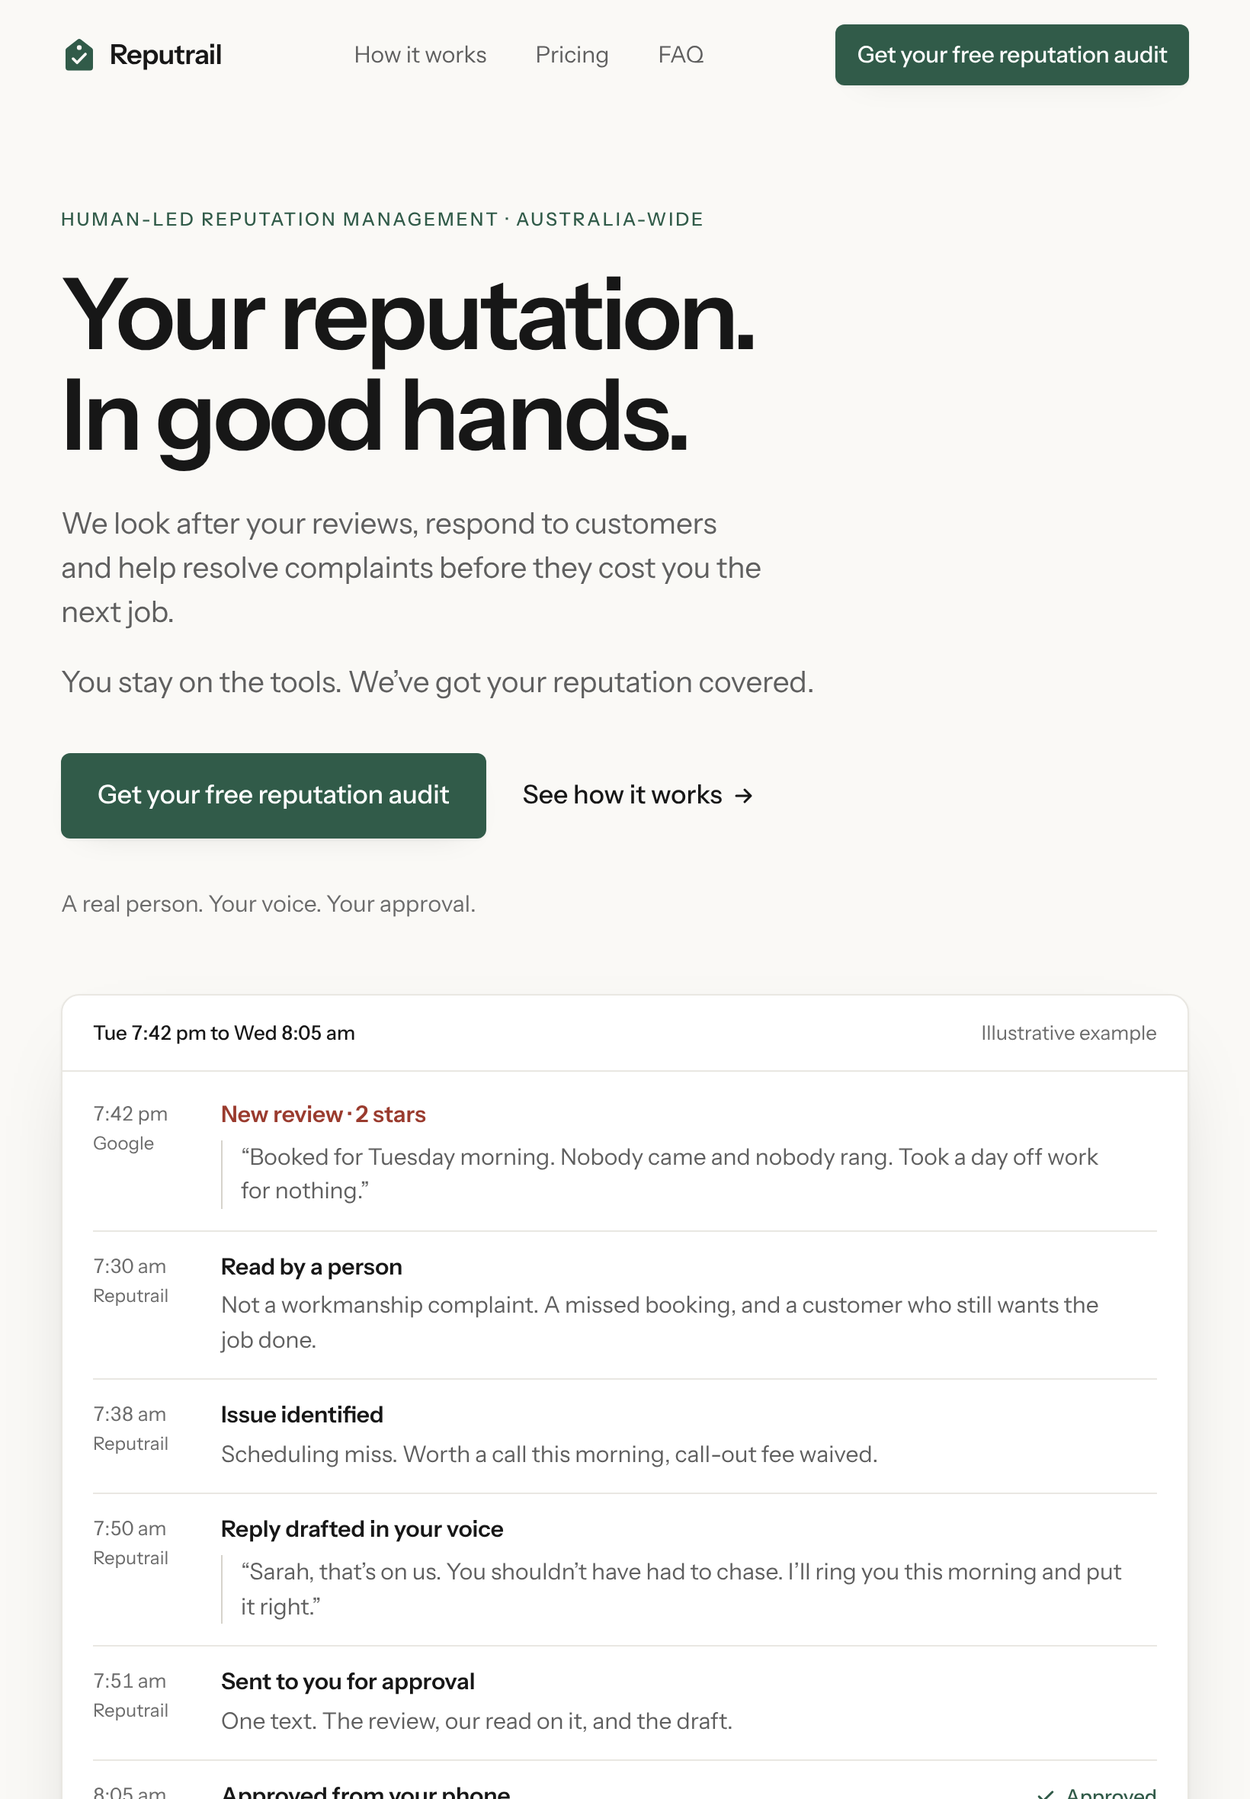
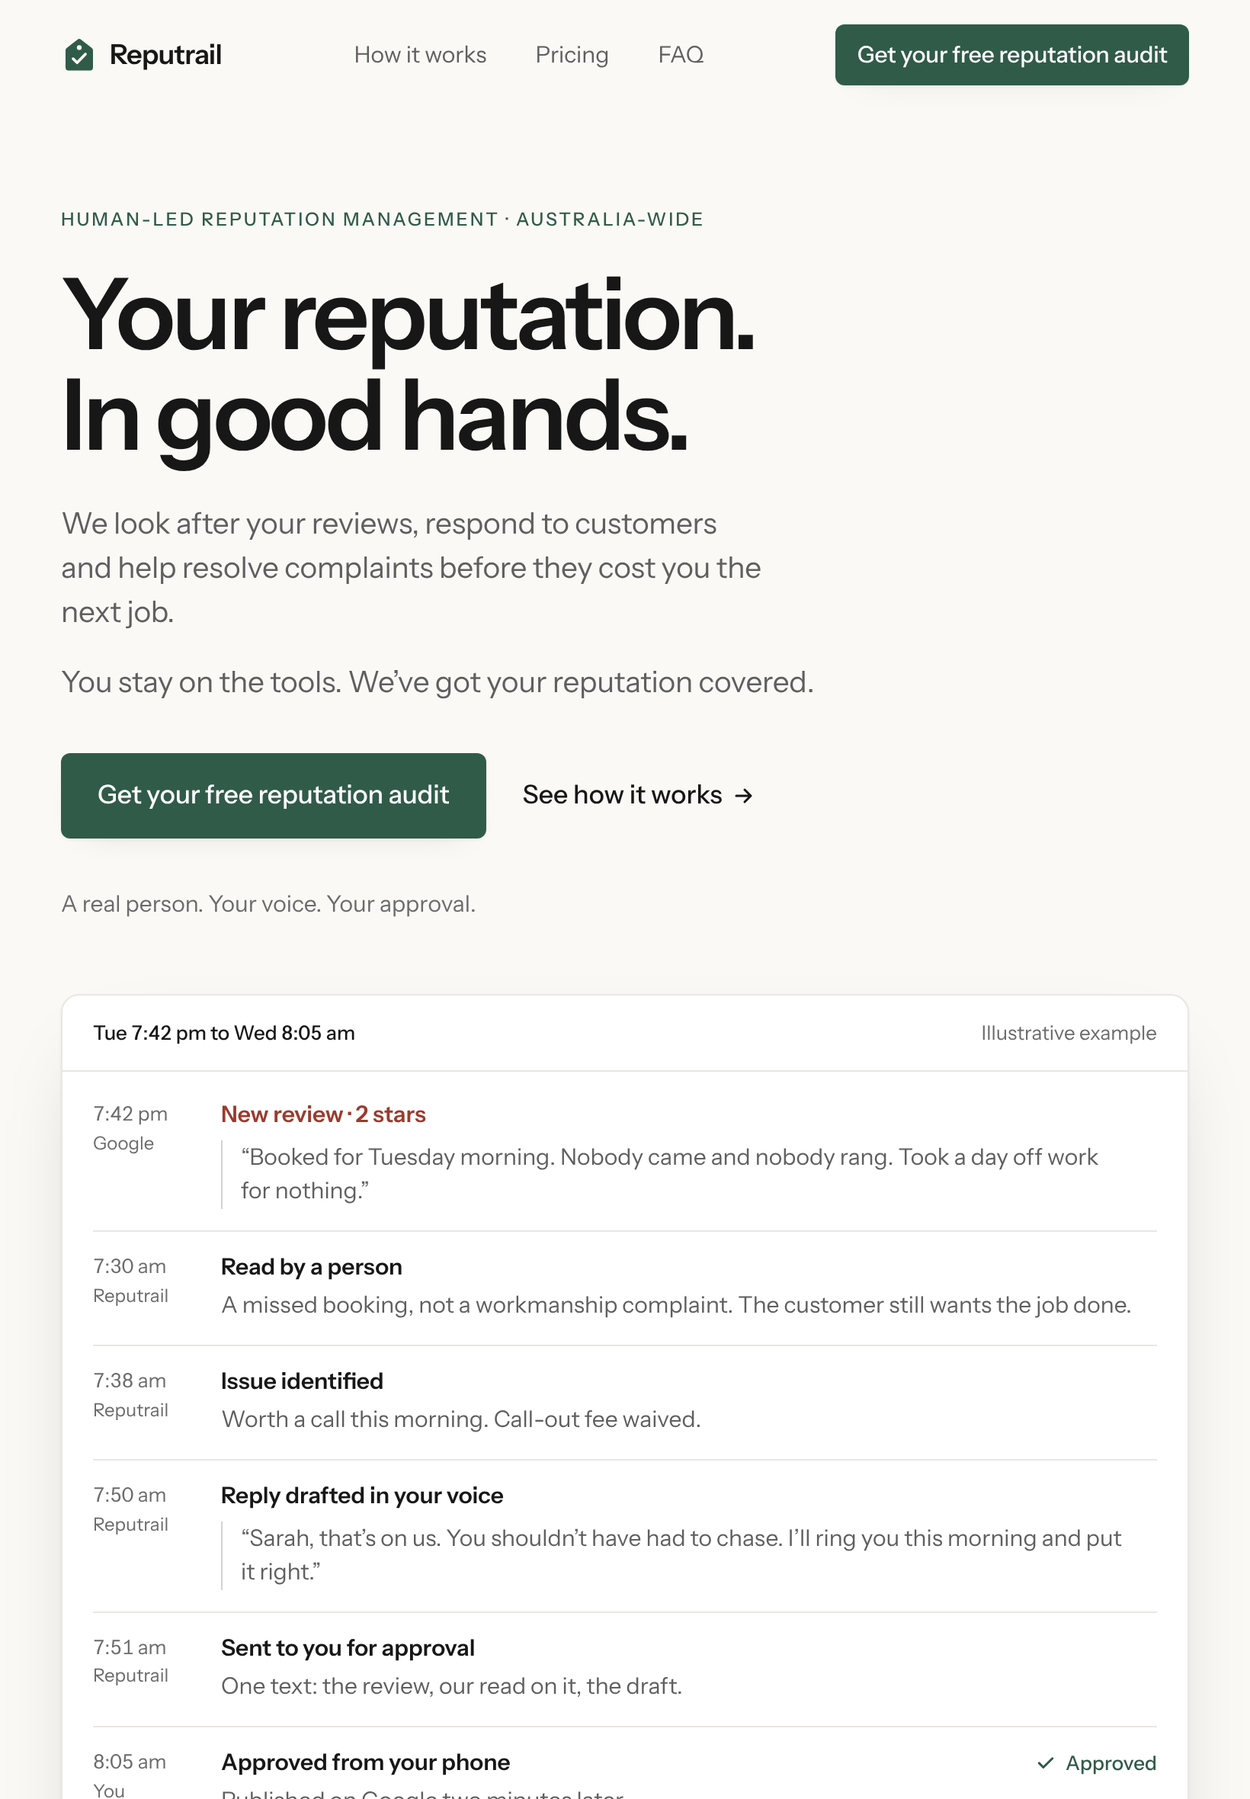
Trim repeated copy across the home page
Services down to two items per group with no overlap with the steps or
plan bullets; shorter step bodies and plan bullets; pricing lede and
pilot panel cut to the terms that matter and the duplicate pilot link
removed; timeline tightened to one entry per idea; shorter audit points,
differentiation bodies, FAQ answers and footer line. 1,529 words to
1,328 on the closed page.

Claude-Session: https://claude.ai/code/session_01ENmCd512n7pVmn2xqYR7gJ

diff --git a/src/lib/site.ts b/src/lib/site.ts
@@ -47,25 +47,15 @@ export const site = {
         name: "Essential",
         price: 299,
         summary: "Your reviews watched and answered.",
-        includes: [
-          "Google, hipages and Facebook checked every working day",
-          "Replies drafted in your voice, published with your approval",
-          "Negative reviews escalated to you the same working day",
-          "One-page monthly report",
-        ],
+        includes: ["Google, hipages and Facebook checked every working day", "Replies drafted and published with your approval", "One-page monthly report"],
         fit: "Owner-operators and small crews.",
       },
       {
         id: "managed",
         name: "Managed",
         price: 499,
-        summary: "Everything in Essential, plus winning customers back.",
-        includes: [
-          "Everything in Essential",
-          "Customer recovery: we prepare the call, you make it",
-          "Genuine review requests after completed jobs",
-          "Quarterly competitor check",
-        ],
+        summary: "Essential, plus winning customers back.",
+        includes: ["Everything in Essential", "Customer recovery: we prepare the call, you make it", "Review requests after every completed job"],
         fit: "Businesses with 3 to 15 staff and a steady flow of jobs.",
         featured: true,
       },
@@ -74,12 +64,7 @@ export const site = {
         name: "Premium",
         price: 799,
         summary: "For operators who win work on reputation.",
-        includes: [
-          "Everything in Managed",
-          "Monthly competitor and customer-feedback insights",
-          "Complaint and warranty follow-up coordination",
-          "Monthly 30-minute review call",
-        ],
+        includes: ["Everything in Managed", "Monthly competitor and customer-feedback insights", "Complaint and warranty follow-up, plus a monthly call"],
         fit: "Multi-crew or multi-location businesses.",
       },
     ],
@@ -103,20 +88,8 @@ export const trades = [
 ] as const;
 
 export const serviceGroups = [
-  {
-    name: "Review management",
-    items: ["Every review read by a person, every working day", "Replies drafted in your voice", "Nothing published without your approval"],
-  },
-  {
-    name: "Customer recovery",
-    items: ["Negative reviews escalated the same working day", "A short brief before you ring the customer", "Outcomes recorded and followed up"],
-  },
-  {
-    name: "Reputation growth",
-    items: ["Honest review requests after completed jobs", "Every nominated customer asked, not just the happy ones", "Working unsubscribe on every message"],
-  },
-  {
-    name: "Reporting and insights",
-    items: ["One-page report each month", "How you compare with three local competitors", "What customers keep praising and complaining about"],
-  },
+  { name: "Review management", items: ["Google, hipages and Facebook, every working day", "Nothing published without your approval"] },
+  { name: "Customer recovery", items: ["Bad reviews escalated the same day", "Outcomes recorded and followed up"] },
+  { name: "Reputation growth", items: ["Honest review requests after every job", "Every customer asked, not just the happy ones"] },
+  { name: "Reporting and insights", items: ["One page a month", "What customers keep praising and complaining about"] },
 ] as const;

diff --git a/src/components/sections/FreeAudit.tsx b/src/components/sections/FreeAudit.tsx
@@ -3,9 +3,9 @@ import { ButtonLink } from "@/components/Button";
 import { Section, SectionHeading } from "@/components/Section";
 
 const points = [
-  { title: "Where you stand", body: "Your rating, reply rate and most recent review next to three competitors near you." },
-  { title: "What customers are saying", body: "The themes in your reviews, good and bad, in plain words." },
-  { title: "What we’d fix first", body: "Three things, in order. Yours to act on with or without us." },
+  { title: "Where you stand", body: "Your rating, reply rate and newest review next to three competitors near you." },
+  { title: "What customers are saying", body: "The themes in your reviews, good and bad." },
+  { title: "What we’d fix first", body: "Three things, in order, with or without us." },
 ];
 
 /** A fictional audit, typeset like the one-page document a customer receives. */
@@ -53,8 +53,8 @@ function ReportPreview() {
         <p className="text-[0.75rem] uppercase tracking-[0.08em] text-ink-faint">What we’d fix first</p>
         <ol className="mt-3 grid gap-2.5 text-small text-ink-soft">
           <li className="grid grid-cols-[1.25rem_1fr] gap-2"><span className="tabular text-ink">1.</span>Reply to the four unanswered reviews, starting with the two-star from March.</li>
-          <li className="grid grid-cols-[1.25rem_1fr] gap-2"><span className="tabular text-ink">2.</span>Ask the last 20 completed jobs for a review. Your most recent is 14 months old.</li>
-          <li className="grid grid-cols-[1.25rem_1fr] gap-2"><span className="tabular text-ink">3.</span>Add after-hours contact details to your profile; three reviews mention not being able to reach you.</li>
+          <li className="grid grid-cols-[1.25rem_1fr] gap-2"><span className="tabular text-ink">2.</span>Ask the last 20 jobs for a review. Your newest is 14 months old.</li>
+          <li className="grid grid-cols-[1.25rem_1fr] gap-2"><span className="tabular text-ink">3.</span>Add after-hours contact details; three reviews mention not reaching you.</li>
         </ol>
       </div>
     </figure>
@@ -69,7 +69,7 @@ export function FreeAudit() {
           <SectionHeading
             id="audit-heading"
             title="See where your reputation stands."
-            lede="Send us your business name. Within two working days you’ll have one page that shows you three things."
+            lede="Send us your business name. Two working days later, one page shows you three things."
           />
           <ol className="mt-8 grid gap-6 border-t rule pt-8 md:mt-10">
             {points.map((p, i) => (
@@ -86,7 +86,7 @@ export function FreeAudit() {
             <ButtonLink href="/audit" size="lg" className="w-full sm:w-auto">
               Get your free reputation audit
             </ButtonLink>
-            <p className="mt-4 text-small text-ink-faint">No logins or access needed. We only use what’s already public.</p>
+            <p className="mt-4 text-small text-ink-faint">No logins needed. We only use what’s public.</p>
           </Reveal>
         </div>
         <Reveal delay={120}>

diff --git a/src/components/sections/Pricing.tsx b/src/components/sections/Pricing.tsx
@@ -1,5 +1,5 @@
 import { Reveal } from "@/components/Reveal";
-import { ButtonLink, TextLink } from "@/components/Button";
+import { ButtonLink } from "@/components/Button";
 import { Section, SectionHeading } from "@/components/Section";
 import { site } from "@/lib/site";
 
@@ -13,7 +13,7 @@ export function Pricing() {
       <SectionHeading
         id="pricing-heading"
         title="Straightforward pricing. No lock-in."
-        lede="Month to month. No set-up fee. Cancel any time and your plan ends with the month you’ve paid for. Prices exclude GST."
+        lede="Month to month, no set-up fee, cancel any time. Prices exclude GST."
       />
 
       <ul className="mt-10 grid gap-5 md:mt-14 lg:grid-cols-3">
@@ -65,27 +65,20 @@ export function Pricing() {
         <ButtonLink href="/audit" size="lg" className="w-full">
           Get your free reputation audit
         </ButtonLink>
-        <p className="mt-3 text-center text-small text-ink-faint">The audit comes first. We’ll talk plans after.</p>
+        <p className="mt-3 text-center text-small text-ink-faint">The audit comes first.</p>
       </Reveal>
 
-      <Reveal className="mt-10 grid gap-6 rounded-md border rule bg-ground-sunken/70 p-6 md:grid-cols-[1fr_auto] md:items-center md:p-8">
+      <Reveal className="mt-10 rounded-md border rule bg-ground-sunken/70 p-6 md:p-8">
         <div className="max-w-[36rem]">
           <h3 className="text-heading text-ink">{pilot.label}</h3>
           <p className="mt-2 text-body text-ink-soft">
-            For our first three customers: the Managed plan at {fmt(pilot.price)} {pilot.period}, no set-up fee, nothing
-            renewing automatically. Around day 25 we ask what you’d like to do next: continue at {fmt(managedPrice)} a month, or
-            stop. Either way the audit and report are yours to keep.
+            Our first three customers get the Managed plan at {fmt(pilot.price)} {pilot.period}. Nothing renews automatically:
+            around day 25 we ask whether you’d like to continue at {fmt(managedPrice)} a month or stop.
           </p>
           {pilot.places > 0 ? (
-            <p className="mt-3 text-small text-ink-faint">
-              {pilot.places === 1 ? "One place left." : `${pilot.places} places left.`} The audit comes first; pilot places are
-              offered after it.
-            </p>
+            <p className="mt-3 text-small text-ink-faint">{pilot.places === 1 ? "One place left." : `${pilot.places} places left.`} The audit comes first.</p>
           ) : null}
         </div>
-        <TextLink href="/audit" className="md:self-center">
-          Get your free reputation audit
-        </TextLink>
       </Reveal>
     </Section>
   );

diff --git a/src/components/sections/Faq.tsx b/src/components/sections/Faq.tsx
@@ -8,7 +8,7 @@ export const faqs = [
   },
   {
     q: "Can you remove negative reviews?",
-    a: "Only when a review breaks Google’s own rules, for example it’s about a different business or the person was never a customer. We prepare the report and submit it with your approval; Google decides. Genuine negative reviews can’t be removed, and anyone who promises otherwise is misleading you. What we can do is make sure every one gets a calm reply and, where possible, a private fix. We never ask a customer to change a review.",
+    a: "Only when a review breaks Google’s own rules, for example it’s about a different business or the person was never a customer. We prepare the report with your approval; Google decides. Genuine negative reviews can’t be removed, and anyone who promises otherwise is misleading you. What we can do is make sure each one gets a calm reply and, where possible, a private fix. We never ask a customer to change a review.",
   },
   {
     q: "Do you need my password?",
@@ -20,7 +20,7 @@ export const faqs = [
   },
   {
     q: "What happens when a complaint arrives?",
-    a: "The same working day, a person reads it and works out what kind of problem it is. You get a text with the review, our read on it and a draft reply in your voice. If a call could win the customer back, we brief you first and log what was agreed.",
+    a: "The same working day, a person reads it and works out what kind of problem it is. You get a text with the review, our read on it and a draft reply. If a call could win the customer back, we brief you first.",
   },
   {
     q: "Can I cancel?",
@@ -28,7 +28,7 @@ export const faqs = [
   },
   {
     q: "What about my customers’ information?",
-    a: "We collect the minimum: a first name and one contact detail to send a review request you’ve asked for, and the public text of reviews. We never sell or share it, we strip it before any software sees it, and we delete it when you leave. Every request includes a working unsubscribe.",
+    a: "The minimum: a first name and one contact detail to send a review request you’ve asked for, and the public text of reviews. We never sell or share it, we strip it before any software sees it, and we delete it when you leave.",
   },
 ];
 
@@ -39,7 +39,7 @@ export function Faq() {
         <SectionHeading
           id="faq-heading"
           title="Questions, answered plainly."
-          lede="If yours isn’t here, ask us on the call."
+          lede="If yours isn’t here, ask."
           className="lg:sticky lg:top-24 lg:self-start"
         />
         <div className="border-t rule">

diff --git a/src/components/sections/Experience.tsx b/src/components/sections/Experience.tsx
@@ -10,22 +10,21 @@ const days = [
     day: "Tuesday evening",
     steps: [
       { t: "7:42 pm", text: "A two-star review lands. The customer took a day off and nobody came." },
-      { t: "Overnight", text: "Nothing needs to happen tonight. But the next customer who searches will see it, so the morning matters." },
+      { t: "Overnight", text: "Nothing needs to happen tonight. The morning matters." },
     ],
   },
   {
     day: "Wednesday",
     steps: [
-      { t: "By 8:05 am", text: "We’ve read it, texted you our read on it and a draft reply in your voice, and you’ve approved it from your phone. It’s on Google before most people have searched for a plumber." },
+      { t: "By 8:05 am", text: "We’ve read it, texted you our read and a draft reply, and you’ve approved it from your phone. It’s on Google before most people have searched for a plumber." },
       { t: "9:10 am", text: "You ring the customer. We’ve briefed you first, so the call is short and goes well." },
-      { t: "9:25 am", text: "Rebooked for Friday, call-out fee waived. We log what was agreed." },
+      { t: "9:25 am", text: "Rebooked for Friday, fee waived. We log what was agreed." },
     ],
   },
   {
     day: "Friday",
     steps: [
-      { t: "4:40 pm", text: "Job done. We send a short thank-you. Nothing asked for in return." },
-      { t: "Later", text: "Whatever she decides, the next customer sees a problem that was handled, not ignored." },
+      { t: "4:40 pm", text: "Job done. We send a short thank-you, nothing asked for in return. The next customer sees a problem that was handled." },
     ],
   },
 ];
@@ -36,7 +35,7 @@ export function Experience() {
       <SectionHeading
         id="experience-heading"
         title="Here’s what happens when something goes wrong."
-        lede="One missed booking, from the review landing on Tuesday night to the job being done on Friday. An illustrative example, not a real customer."
+        lede="One missed booking, Tuesday night to Friday. An illustrative example, not a real customer."
       />
 
       <ol className="mt-10 grid gap-10 md:mt-14 md:gap-12 lg:grid-cols-3 lg:gap-10">

diff --git a/src/components/sections/HowItWorks.tsx b/src/components/sections/HowItWorks.tsx
@@ -5,22 +5,22 @@ const steps = [
   {
     n: "01",
     title: "Understand your business",
-    body: "A 30-minute call. How you talk to customers, what you’ll offer when something goes wrong, who approves what. We write it down so every reply sounds like you.",
+    body: "A 30-minute call: how you talk to customers, what you’ll offer when something goes wrong, who approves what.",
   },
   {
     n: "02",
     title: "Monitor and respond",
-    body: "Every working day a person reads your new reviews on Google, hipages and Facebook, drafts replies in your voice and sends them to you to approve by text.",
+    body: "Every working day a person reads your new reviews, drafts the replies in your voice and sends them to you to approve by text.",
   },
   {
     n: "03",
     title: "Escalate and recover",
-    body: "Negative reviews reach you the same working day with our read on the problem and a suggested fix. If a call could win the customer back, we brief you before you ring.",
+    body: "Negative reviews reach you the same day with our read on the problem and a suggested fix. If a call could win the customer back, we brief you first.",
   },
   {
     n: "04",
     title: "Report and improve",
-    body: "One page a month. What came in, how it was handled, how you compare with three local competitors and what customers keep saying.",
+    body: "One page a month: what came in, how it was handled, and what customers keep saying.",
   },
 ];
 
@@ -31,7 +31,7 @@ export function HowItWorks() {
         <SectionHeading
           id="how-heading"
           title="We handle the reviews. You run the business."
-          lede="Four steps, done by people, with your approval at every point that matters."
+          lede="Four steps, done by people."
           className="lg:sticky lg:top-24 lg:self-start"
         />
         <ol className="border-t rule">

diff --git a/src/components/sections/Differentiation.tsx b/src/components/sections/Differentiation.tsx
@@ -4,15 +4,15 @@ import { Section, SectionHeading } from "@/components/Section";
 const points = [
   {
     title: "Someone you can call",
-    body: "Someone looking after your reviews who picks up the phone. Not a ticket queue, not a chatbot.",
+    body: "Someone looking after your reviews who picks up the phone. Not a ticket queue.",
   },
   {
     title: "Replies in your voice",
-    body: "We learn how you talk to customers and write the way you would. You read and approve every word before it goes up.",
+    body: "We learn how you talk to customers and write the way you would. You approve every word.",
   },
   {
     title: "Problems handled, not notifications sent",
-    body: "Apps tell you a review arrived and leave the rest to you. We read it, work out what went wrong and bring you a plan.",
+    body: "Apps tell you a review arrived. We read it, work out what went wrong and bring you a plan.",
   },
 ];
 

diff --git a/src/components/ActivityFeed.tsx b/src/components/ActivityFeed.tsx
@@ -26,13 +26,13 @@ const entries: Entry[] = [
     time: "7:30 am",
     who: "Reputrail",
     title: "Read by a person",
-    body: "Not a workmanship complaint. A missed booking, and a customer who still wants the job done.",
+    body: "A missed booking, not a workmanship complaint. The customer still wants the job done.",
   },
   {
     time: "7:38 am",
     who: "Reputrail",
     title: "Issue identified",
-    body: "Scheduling miss. Worth a call this morning, call-out fee waived.",
+    body: "Worth a call this morning. Call-out fee waived.",
   },
   {
     time: "7:50 am",
@@ -44,7 +44,7 @@ const entries: Entry[] = [
     time: "7:51 am",
     who: "Reputrail",
     title: "Sent to you for approval",
-    body: "One text. The review, our read on it, and the draft.",
+    body: "One text: the review, our read on it, the draft.",
   },
   {
     time: "8:05 am",

diff --git a/src/components/sections/WhatWeHandle.tsx b/src/components/sections/WhatWeHandle.tsx
@@ -5,7 +5,7 @@ import { serviceGroups } from "@/lib/site";
 export function WhatWeHandle() {
   return (
     <Section id="services" tone="raised" labelledBy="services-heading">
-      <SectionHeading id="services-heading" title="Everything taken care of." lede="The whole job, not a dashboard that leaves it to you." />
+      <SectionHeading id="services-heading" title="Everything taken care of." lede="The whole job, not a dashboard." />
       <div className="mt-10 grid gap-10 border-t rule pt-8 sm:grid-cols-2 md:mt-14 md:pt-10 lg:grid-cols-4 lg:gap-8">
         {serviceGroups.map((g, i) => (
           <Reveal key={g.name} delay={i * 80}>

diff --git a/src/components/Footer.tsx b/src/components/Footer.tsx
@@ -11,8 +11,8 @@ export function Footer() {
           <div className="max-w-sm">
             <Wordmark />
             <p className="mt-4 text-small text-ink-soft">
-              {site.tagline} Human-led reputation management for trades, home services and property
-              managers across Australia. Based in {site.region}.
+              Human-led reputation management for trades, home services and property managers across Australia. Based in{" "}
+              {site.region}.
             </p>
           </div>
           <nav aria-label="Footer" className="grid content-start gap-2 text-small">

diff --git a/src/components/sections/Problem.tsx b/src/components/sections/Problem.tsx
@@ -4,7 +4,7 @@ import { Section, SectionHeading } from "@/components/Section";
 const points = [
   {
     title: "Reviews go unanswered",
-    body: "A two-star review with no reply is the first thing the next customer reads. Silence looks like you don’t care, even when you do.",
+    body: "A two-star review with no reply is the first thing the next customer reads. Silence looks like you don’t care.",
   },
   {
     title: "Complaints get ignored or handled badly",
